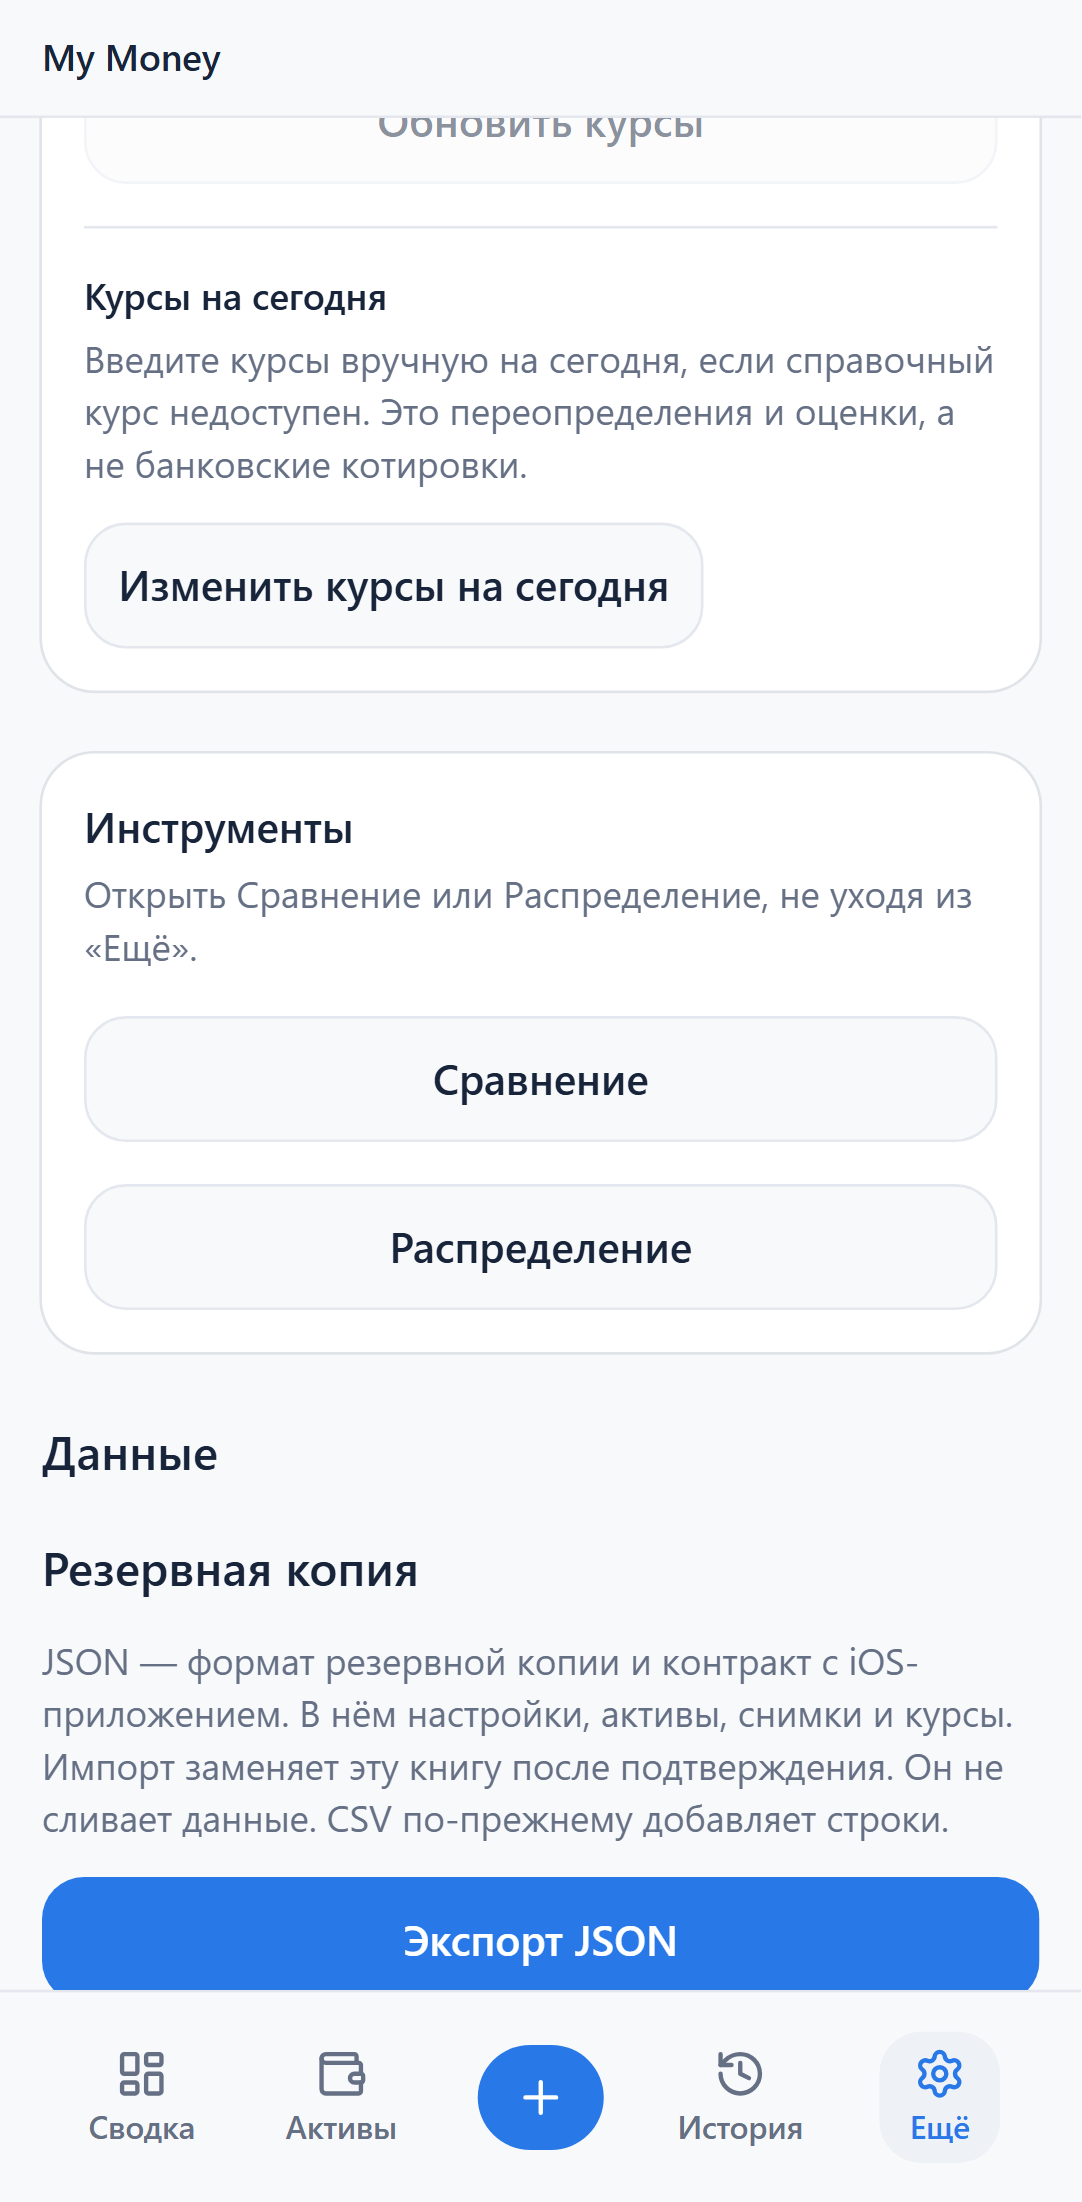
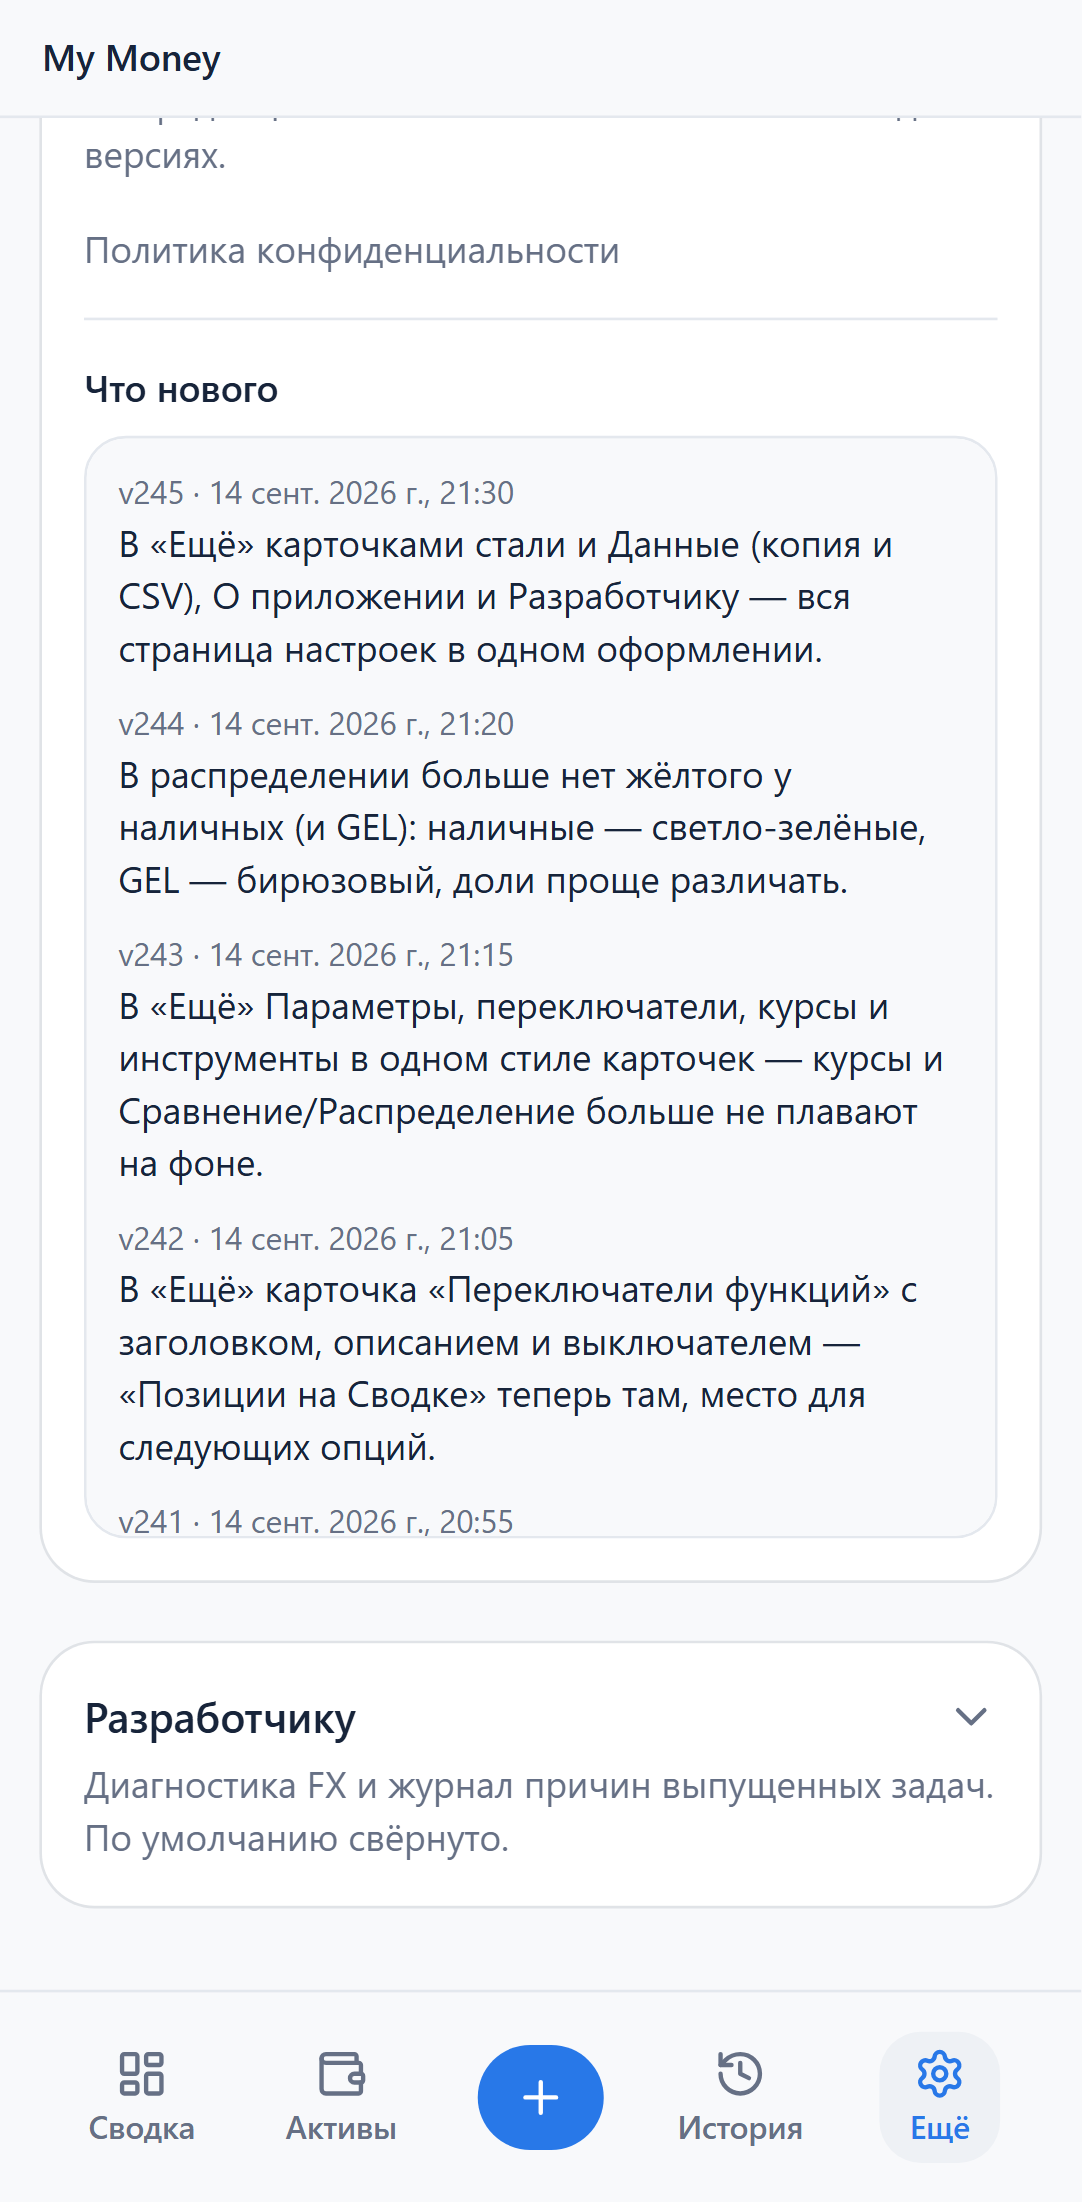
#272: wrap Data, About, and Developer in Settings cards.

diff --git a/src/features/settings/DeveloperSection.tsx b/src/features/settings/DeveloperSection.tsx
@@ -3,6 +3,13 @@ import { ChevronDown } from 'lucide-react'
 import { useLocation } from 'react-router-dom'
 import { useTranslation } from '@/i18n'
 import { cn } from '@/shared/lib/utils'
+import {
+  Card,
+  CardContent,
+  CardDescription,
+  CardHeader,
+  CardTitle,
+} from '@/shared/ui/card'
 import { FxDebugSection } from './FxDebugSection'
 import { RcaSection } from './RcaSection'
 
@@ -29,38 +36,43 @@ export function DeveloperSection() {
   }, [hash])
 
   return (
-    <section className="flex flex-col gap-3">
-      <h2 className="text-lg font-semibold">
-        <button
-          type="button"
-          className="flex w-full items-center justify-between gap-2 text-left"
-          aria-expanded={open}
-          onClick={() => setUserOpen(!open)}
-        >
-          {t.settings.groupDeveloper}
-          <ChevronDown
-            className={cn(
-              'size-5 shrink-0 text-muted-foreground transition-transform',
-              open && 'rotate-180',
-            )}
-            aria-hidden
-          />
-        </button>
-      </h2>
+    <Card data-testid="settings-developer">
+      <CardHeader>
+        <CardTitle>
+          <button
+            type="button"
+            className="flex w-full items-center justify-between gap-2 text-left"
+            aria-expanded={open}
+            onClick={() => setUserOpen(!open)}
+          >
+            {t.settings.groupDeveloper}
+            <ChevronDown
+              className={cn(
+                'size-5 shrink-0 text-muted-foreground transition-transform',
+                open && 'rotate-180',
+              )}
+              aria-hidden
+            />
+          </button>
+        </CardTitle>
+        <CardDescription>{t.settings.developerDescription}</CardDescription>
+      </CardHeader>
       {open ? (
-        <>
+        <CardContent className="flex flex-col gap-4 border-t border-border pt-4">
           <FxDebugSection />
           <section id="root-causes" className="flex flex-col gap-3">
             <div className="flex flex-col gap-1">
-              <h3 className="text-lg font-semibold">{t.settings.rcaLabel}</h3>
+              <h3 className="font-medium text-foreground">
+                {t.settings.rcaLabel}
+              </h3>
               <p className="text-sm text-muted-foreground">
                 {t.settings.rcaDescription}
               </p>
             </div>
             <RcaSection />
           </section>
-        </>
+        </CardContent>
       ) : null}
-    </section>
+    </Card>
   )
 }

diff --git a/src/data/issueRcas.ts b/src/data/issueRcas.ts
@@ -16,8 +16,8 @@ export const issueRcas: IssueRca[] = [
       en: 'Settings: card-wrap other sections by meaning',
       ru: 'Настройки: карточки секций по смыслу',
     },
-    en: '#271 Feature toggles card looked right on device; Preferences, rates, and Comparison/Allocation still floated. Shared SettingsCard: Preferences, Feature toggles, Exchange rates (update + manual), Tools (Comparison + Allocation). Data/About/Developer unchanged.',
-    ru: 'Карточка #271 на устройстве ок; Параметры, курсы и Сравнение/Распределение плавали. Общий SettingsCard: Параметры, переключатели, Курсы (обновить + ручные), Инструменты. Данные/О приложении/Разработчику без изменений.',
+    en: '#271 Feature toggles card looked right on device; Preferences, rates, and Comparison/Allocation still floated. Shared SettingsCard for Preferences, Feature toggles, Exchange rates, Tools. On-device follow-up: also wrap Data (Backup+CSV), About, and Developer — full More page carded.',
+    ru: 'Карточка #271 на устройстве ок; Параметры, курсы и Сравнение/Распределение плавали. SettingsCard для Параметров, переключателей, Курсов, Инструментов. Доработка: также Данные (Backup+CSV), О приложении и Разработчику — вся «Ещё» в карточках.',
   },
   {
     issue: 271,

diff --git a/src/features/export/BackupSection.tsx b/src/features/export/BackupSection.tsx
@@ -17,7 +17,12 @@ import {
 } from './backupActions'
 import { shareOrDownloadBackupJson } from './downloadBackup'
 
-export function BackupSection() {
+export function BackupSection({
+  embedded = false,
+}: {
+  /** Parent card already shows title/description (#272). */
+  embedded?: boolean
+}) {
   const t = useTranslation()
   const [confirm, confirmDialog] = useConfirm()
   const inputRef = useRef<HTMLInputElement>(null)
@@ -96,9 +101,13 @@ export function BackupSection() {
   }
 
   return (
-    <section className="flex flex-col gap-3">
-      <h2 className="text-lg font-semibold">{t.backup.title}</h2>
-      <p className="text-sm text-muted-foreground">{t.backup.description}</p>
+    <div className="flex flex-col gap-3">
+      {!embedded && (
+        <>
+          <h2 className="text-lg font-semibold">{t.backup.title}</h2>
+          <p className="text-sm text-muted-foreground">{t.backup.description}</p>
+        </>
+      )}
       <Button
         type="button"
         className="w-full"
@@ -149,6 +158,6 @@ export function BackupSection() {
       {message && <p className="text-sm text-muted-foreground">{message}</p>}
       {error && <p className="text-sm text-destructive">{error}</p>}
       {confirmDialog}
-    </section>
+    </div>
   )
 }

diff --git a/src/features/export/CsvSection.tsx b/src/features/export/CsvSection.tsx
@@ -22,7 +22,12 @@ type CsvDraft = {
   mapping: Partial<CsvColumnMapping>
 }
 
-export function CsvSection() {
+export function CsvSection({
+  embedded = false,
+}: {
+  /** Parent card already shows title/description (#272). */
+  embedded?: boolean
+}) {
   const t = useTranslation()
   const inputRef = useRef<HTMLInputElement>(null)
   const [message, setMessage] = useState<string | undefined>()
@@ -108,9 +113,13 @@ export function CsvSection() {
   const extraIssues = (preview?.issues.length ?? 0) - previewIssues.length
 
   return (
-    <section className="flex flex-col gap-3">
-      <h2 className="text-lg font-semibold">{t.csv.title}</h2>
-      <p className="text-sm text-muted-foreground">{t.csv.description}</p>
+    <div className="flex flex-col gap-3">
+      {!embedded && (
+        <>
+          <h2 className="text-lg font-semibold">{t.csv.title}</h2>
+          <p className="text-sm text-muted-foreground">{t.csv.description}</p>
+        </>
+      )}
       <Button
         type="button"
         className="w-full"
@@ -222,6 +231,6 @@ export function CsvSection() {
         </p>
       ))}
       {error && <p className="text-sm text-destructive">{error}</p>}
-    </section>
+    </div>
   )
 }

diff --git a/src/features/settings/AboutSection.tsx b/src/features/settings/AboutSection.tsx
@@ -1,25 +1,29 @@
 import { Link } from 'react-router-dom'
 import { useTranslation } from '@/i18n'
 import { ReleaseNotesSection } from './ReleaseNotesSection'
-import { SettingsGroup } from './SettingsGroup'
+import { SettingsCard } from './SettingsCard'
 
 export function AboutSection() {
   const t = useTranslation()
 
   return (
-    <SettingsGroup title={t.settings.groupAbout}>
+    <SettingsCard
+      testId="settings-about"
+      title={t.settings.groupAbout}
+      description={t.settings.aboutDescription}
+    >
       <Link
         to="/privacy"
         className="text-sm text-muted-foreground underline-offset-4 hover:text-foreground hover:underline"
       >
         {t.settings.readPrivacyPolicyLabel}
       </Link>
-      <section id="release-notes" className="flex flex-col gap-3">
-        <h3 className="text-lg font-semibold">
+      <div id="release-notes" className="flex flex-col gap-2 border-t border-border pt-4">
+        <h3 className="font-medium text-foreground">
           {t.settings.releaseNotesLabel}
         </h3>
         <ReleaseNotesSection />
-      </section>
-    </SettingsGroup>
+      </div>
+    </SettingsCard>
   )
 }

diff --git a/e2e/validation-screenshots.spec.ts b/e2e/validation-screenshots.spec.ts
@@ -2038,13 +2038,20 @@ test('capture Settings meaning cards (#272)', async ({ page }) => {
   await expect(page.getByTestId('feature-toggles')).toBeVisible()
   await expect(page.getByTestId('settings-rates')).toBeVisible()
   await expect(page.getByTestId('settings-tools')).toBeVisible()
+  await expect(page.getByTestId('settings-data')).toBeVisible()
+  await expect(page.getByTestId('settings-about')).toBeVisible()
+  await expect(page.getByTestId('settings-developer')).toBeVisible()
   await expect(
     page.getByRole('heading', { name: 'Курсы валют' }),
   ).toBeVisible()
   await expect(
     page.getByRole('heading', { name: 'Инструменты' }),
   ).toBeVisible()
-  await page.getByTestId('settings-tools').scrollIntoViewIfNeeded()
+  await expect(page.getByRole('heading', { name: 'Данные' })).toBeVisible()
+  await expect(
+    page.getByRole('heading', { name: 'О приложении' }),
+  ).toBeVisible()
+  await page.getByTestId('settings-developer').scrollIntoViewIfNeeded()
   await page.screenshot({
     path: join(outDir, '272-settings-section-cards.png'),
     fullPage: true,

diff --git a/src/features/settings/DataSection.tsx b/src/features/settings/DataSection.tsx
@@ -1,0 +1,31 @@
+import { BackupSection, CsvSection } from '@/features/export'
+import { useTranslation } from '@/i18n'
+import { SettingsCard } from './SettingsCard'
+
+/** Backup + CSV in one Data meaning card (#272). */
+export function DataSection() {
+  const t = useTranslation()
+
+  return (
+    <SettingsCard
+      testId="settings-data"
+      title={t.settings.groupData}
+      description={t.settings.dataDescription}
+    >
+      <div className="flex flex-col gap-3">
+        <div className="flex flex-col gap-1">
+          <h3 className="font-medium text-foreground">{t.backup.title}</h3>
+          <p className="text-sm text-muted-foreground">{t.backup.description}</p>
+        </div>
+        <BackupSection embedded />
+      </div>
+      <div className="flex flex-col gap-3 border-t border-border pt-4">
+        <div className="flex flex-col gap-1">
+          <h3 className="font-medium text-foreground">{t.csv.title}</h3>
+          <p className="text-sm text-muted-foreground">{t.csv.description}</p>
+        </div>
+        <CsvSection embedded />
+      </div>
+    </SettingsCard>
+  )
+}

diff --git a/src/features/settings/SettingsScreen.tsx b/src/features/settings/SettingsScreen.tsx
@@ -1,15 +1,14 @@
 import { useEffect } from 'react'
-import { BackupSection, CsvSection } from '@/features/export'
 import { releaseNotes } from '@/data/releaseNotes'
 import { useTranslation } from '@/i18n'
 import { PageHeader } from '@/shared/ui/page-header'
 import { useSettingsStore } from '@/stores/settingsStore'
 import { AboutSection } from './AboutSection'
+import { DataSection } from './DataSection'
 import { DeveloperSection } from './DeveloperSection'
 import { FeatureTogglesSection } from './FeatureTogglesSection'
 import { PreferencesSection } from './PreferencesSection'
 import { RatesSection } from './RatesSection'
-import { SettingsGroup } from './SettingsGroup'
 import { ToolsSection } from './ToolsSection'
 
 export function SettingsScreen() {
@@ -40,10 +39,7 @@ export function SettingsScreen() {
       <FeatureTogglesSection />
       <RatesSection />
       <ToolsSection />
-      <SettingsGroup title={t.settings.groupData}>
-        <BackupSection />
-        <CsvSection />
-      </SettingsGroup>
+      <DataSection />
       <AboutSection />
       <DeveloperSection />
     </div>

diff --git a/src/i18n/ru.ts b/src/i18n/ru.ts
@@ -294,8 +294,13 @@ export const ru: Dictionary = {
     preferencesDescription:
       'Валюта, язык и внешний вид. Действует на всех вкладках.',
     groupData: 'Данные',
+    dataDescription:
+      'Резервная копия, восстановление или очистка на этом устройстве — и перенос через CSV.',
     groupAbout: 'О приложении',
+    aboutDescription: 'Конфиденциальность и что изменилось в последних версиях.',
     groupDeveloper: 'Разработчику',
+    developerDescription:
+      'Диагностика FX и журнал причин выпущенных задач. По умолчанию свёрнуто.',
     baseCurrency: 'Базовая валюта',
     showAllCurrencies: 'Показать все валюты',
     currencyDisplay: 'Показ активов',

diff --git a/src/features/settings/SettingsScreen.test.tsx b/src/features/settings/SettingsScreen.test.tsx
@@ -225,10 +225,15 @@ describe('SettingsScreen', () => {
     expect(screen.getByTestId('feature-toggles')).toBeInTheDocument()
     expect(screen.getByTestId('settings-rates')).toBeInTheDocument()
     expect(screen.getByTestId('settings-tools')).toBeInTheDocument()
+    expect(screen.getByTestId('settings-data')).toBeInTheDocument()
+    expect(screen.getByTestId('settings-about')).toBeInTheDocument()
+    expect(screen.getByTestId('settings-developer')).toBeInTheDocument()
     expect(
       screen.getByRole('heading', { name: 'Exchange rates' }),
     ).toBeInTheDocument()
     expect(screen.getByRole('heading', { name: 'Tools' })).toBeInTheDocument()
+    expect(screen.getByRole('heading', { name: 'Data' })).toBeInTheDocument()
+    expect(screen.getByRole('heading', { name: 'About' })).toBeInTheDocument()
     expect(
       screen.getByRole('link', { name: 'Comparison' }),
     ).toBeInTheDocument()

diff --git a/src/data/releaseNotes.ts b/src/data/releaseNotes.ts
@@ -10,6 +10,13 @@ export interface ReleaseNote {
 /** User-facing changelog, most-recent-first. Add a row when an issue ships. */
 export const releaseNotes: ReleaseNote[] = [
   {
+    version: 245,
+    issue: 272,
+    date: '2026-09-14T21:30:00+03:00',
+    en: 'More also wraps Data (backup and CSV), About, and Developer in the same cards — the whole settings page uses one chrome.',
+    ru: 'В «Ещё» карточками стали и Данные (копия и CSV), О приложении и Разработчику — вся страница настроек в одном оформлении.',
+  },
+  {
     version: 244,
     issue: 269,
     date: '2026-09-14T21:20:00+03:00',

diff --git a/src/i18n/en.ts b/src/i18n/en.ts
@@ -289,8 +289,13 @@ export const en: Dictionary = {
     preferencesDescription:
       'Currency, language, and how the app looks. These apply across every tab.',
     groupData: 'Data',
+    dataDescription:
+      'Back up, restore, or wipe this device — and move holdings via CSV.',
     groupAbout: 'About',
+    aboutDescription: 'Privacy and what changed in recent versions.',
     groupDeveloper: 'Developer',
+    developerDescription:
+      'Diagnostics for FX and a log of why shipped issues happened. Collapsed by default.',
     baseCurrency: 'Base currency',
     showAllCurrencies: 'Show all currencies',
     currencyDisplay: 'Asset display',
